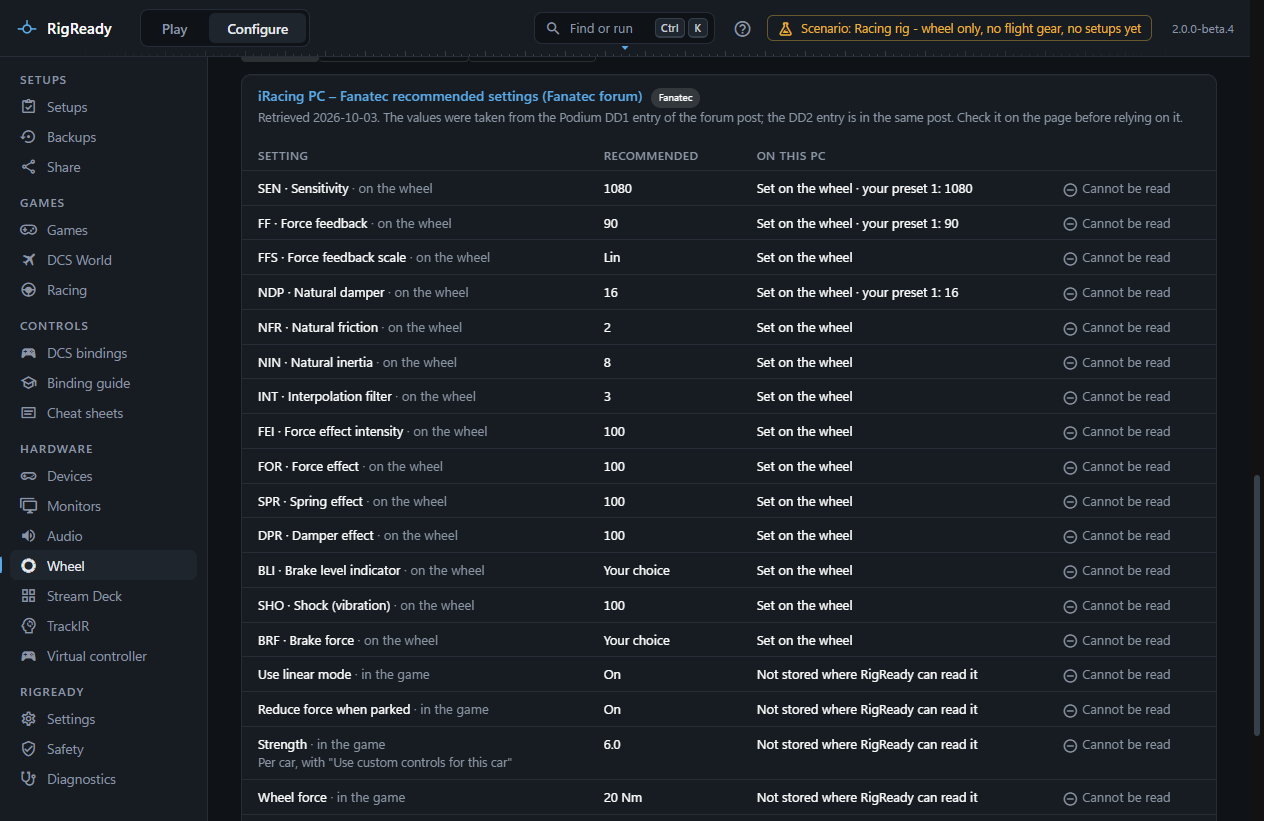
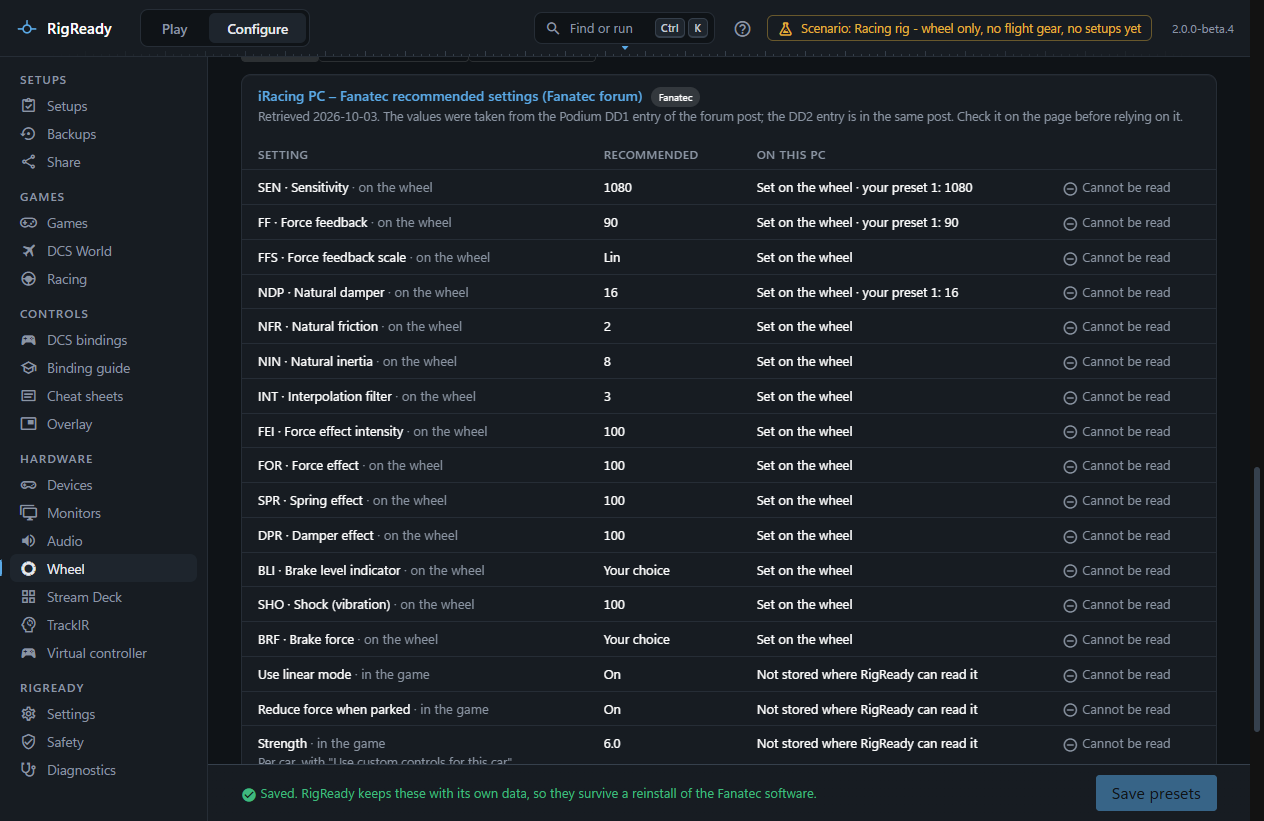
Wheel page: "Save presets" stays in view, in the shared Save bar
The owner's finding 38. The button was in the heading of "Your tuning
presets", far down the page. It is now in the shared bar at the bottom of
the window, under its old test id (presets-save).

The bar says "Tuning presets not saved yet" or "Tuning presets: nothing to
save", and after a save what was saved (the bar's save-bar-saved, where
presets-saved was). New: leaving the page with presets that are not saved
asks first, and staying keeps what was typed.

A template swap only: no logic of the page is changed. A save that fails is
still said at the top of the page.

RACE-FANATEC-006, with a scenario test that the button is inside the window
at the top of the page and at its end. Three pictures of the page are
redrawn.

Claude-Session: https://claude.ai/code/session_01QWDDR8Un1zyjRjreaSucHi

diff --git a/tests/e2e/racing.e2e.ts b/tests/e2e/racing.e2e.ts
@@ -2,6 +2,7 @@ import { promises as fs } from 'node:fs';
 import path from 'node:path';
 import { parseControlsCfg } from '../../src/features/racing/core/iracing/controlsCfg';
 import { checkRow, expect, test } from './harness';
+import { expectSaveBarPinned } from './saveBar';
 
 /** The same iRacing bindings file with one action moved to the next button: another rim's bindings. */
 function withOneButtonMoved(controls: Buffer): Buffer {
@@ -513,7 +514,7 @@ test('racing: the wheel page, recorded presets and recommended settings', async 
   await page.getByTestId('preset-FF').locator('input').fill('90');
   await page.getByTestId('preset-NDP').locator('input').fill('16');
   await page.getByTestId('presets-save').click();
-  await expect(page.getByTestId('presets-saved')).toBeVisible();
+  await expect(page.getByTestId('save-bar-saved')).toBeVisible();
   await expect(page.getByTestId('preset-tab-1')).toContainText('3');
   await page.getByTestId('wheel-presets').evaluate((el) => el.scrollIntoView({ block: 'start' }));
   await shot('presets');
@@ -584,4 +585,46 @@ test('racing: game pages show status at a glance, launch, and a folder chosen by
     'cannot list what is bound'
   );
   await shot('msfs2024');
+});
+
+test('racing: "Save presets" stays in the window from the top of the wheel page to its end, and leaving with presets that are not saved asks first', async ({
+  rig,
+}) => {
+  const { page, shot } = await rig.launch('racing-fresh', 'racing-wheel-save-bar');
+  await page.getByTestId('mode-configure').click();
+  await page.getByTestId('nav-wheel').click();
+  await expect(page.getByTestId('wheel-name')).toHaveText('FANATEC Podium Wheel Base DD2');
+  const save = page.getByTestId('presets-save');
+  await expect(save).toHaveText('Save presets');
+  await expect(save).toBeDisabled();
+  await expect(page.getByTestId('save-bar-clean')).toHaveText('Tuning presets: nothing to save');
+  // The bar has one button here: the way back from this page is the menu.
+  await expect(page.getByTestId('save-bar-back')).toHaveCount(0);
+
+  await page.getByTestId('preset-FF').locator('input').fill('90');
+  await expect(page.getByTestId('save-bar-unsaved')).toHaveText('Tuning presets not saved yet');
+  await expect(save).toBeEnabled();
+  await expectSaveBarPinned(page, save, shot);
+
+  // Another page of the menu: the value typed would be lost, so the bar asks.
+  await page.getByTestId('nav-racing').click();
+  await expect(page.getByTestId('save-bar-leave')).toBeVisible();
+  await shot('leaving-asks');
+  await page.getByTestId('save-bar-leave-stay').click();
+  await expect(page.getByTestId('wheel-page')).toBeVisible();
+  await expect(page.getByTestId('preset-FF').locator('input')).toHaveValue('90');
+
+  // Saved from the end of the page: what was done is said beside the button.
+  await save.click();
+  const done = page.getByTestId('save-bar-saved');
+  await expect(done).toContainText('Saved. RigReady keeps these with its own data');
+  await expect(done).toBeInViewport({ ratio: 1 });
+  await expect(save).toBeDisabled();
+  await shot('saved');
+
+  // Nothing is unsaved now, and nothing is asked.
+  await page.getByTestId('nav-racing').click();
+  await expect(page.getByTestId('racing-wheel-summary')).toBeVisible();
+  await expect(page.getByTestId('save-bar-leave')).toHaveCount(0);
+  await expect(page.getByTestId('save-bar')).toHaveCount(0);
 });

diff --git a/src/features/racing/renderer/WheelPage.vue b/src/features/racing/renderer/WheelPage.vue
@@ -15,6 +15,7 @@ import {
 import { wheelHead } from '../core/wheelbases/head';
 import { UNLISTED_NOT_AVAILABLE, UNLISTED_WORKS } from '../core/wheelbases/unlistedScope';
 import BackupsPanel from './BackupsPanel.vue';
+import SaveBar from '../../../renderer/components/SaveBar.vue';
 import './racing.css';
 
 const api = useClient(racingContract);
@@ -591,20 +592,6 @@ const STATUS = {
       <section v-if="presets && fanatec" class="rc-section" data-testid="wheel-presets">
         <div class="rc-section-head">
           <h2 class="rr-section-title">Your tuning presets</h2>
-          <v-spacer />
-          <span v-if="dirty" class="rc-hint">Not saved yet</span>
-          <span v-else id="presets-save-hint" class="rc-hint">Nothing to save</span>
-          <v-btn
-            color="primary"
-            size="small"
-            :disabled="!dirty"
-            :title="dirty ? undefined : 'Change a value below, then save.'"
-            :aria-describedby="dirty ? undefined : 'presets-save-hint'"
-            :loading="saving"
-            data-testid="presets-save"
-            @click="save"
-            >Save presets</v-btn
-          >
         </div>
         <div class="rc-notice">
           <v-icon icon="mdi-information-outline" class="rr-muted" />
@@ -614,9 +601,6 @@ const STATUS = {
             Write your values down here, from the base's display or the Fanatec App, and you have a
             record to set the base back from.
           </div>
-        </div>
-        <div v-if="saved" class="rc-message rr-ok" data-testid="presets-saved">
-          <v-icon icon="mdi-check" size="16" /> {{ saved }}
         </div>
         <div class="rr-panel">
           <v-tabs v-model="slot" density="compact" class="px-2" data-testid="preset-tabs">
@@ -823,6 +807,23 @@ const STATUS = {
         :game="backupGame"
         :what="`${status.brandName} profiles`"
         :closed-hint="`The ${status.brandName} software must be closed while its profiles are restored; RigReady offers to close it and start it again.`"
+      />
+
+      <!--
+        "Save presets" stays in view however far the page is scrolled, and leaving the page
+        with presets that are not saved asks first.
+      -->
+      <SaveBar
+        v-if="presets && fanatec"
+        :dirty="dirty"
+        :saving="saving"
+        :disabled="!dirty"
+        :saved="saved"
+        save-label="Save presets"
+        save-testid="presets-save"
+        unsaved-label="Tuning presets not saved yet"
+        clean-label="Tuning presets: nothing to save"
+        @save="save"
       />
     </template>
   </div>
